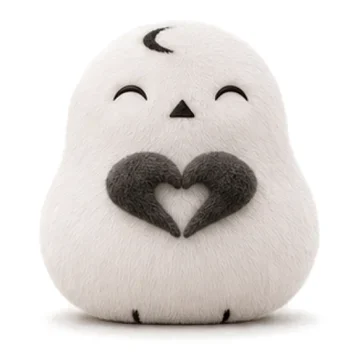
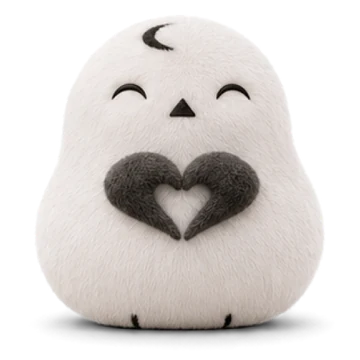
Cut out character backgrounds, keep their shadows
Re-cut all babsae and animal images as transparent WebP: the body is
segmented and the soft floor shadow is kept as semi-transparent black,
so characters sit directly on pink and purple backgrounds. Drop the
white circle and card frames around characters and avatars.

Claude-Session: https://claude.ai/code/session_018ZYqN2crppdHUiiN1saqA5

diff --git a/src/styles/base.css b/src/styles/base.css
@@ -194,17 +194,8 @@ a { color: inherit; }
 }
 .screen-nav a[aria-current='page'] { background: var(--c-purple); color: var(--c-white); border-color: var(--c-purple); }
 
-/* ---------- 캐릭터 (뱁새, 친구 동물) ---------- */
-.char {
-  flex: none; align-self: center; overflow: hidden;
-  border-radius: 32%; background: var(--c-white);
-  box-shadow: 0 6px 20px rgba(242, 54, 155, 0.12);
-}
-.char--round { border-radius: 50%; }
-.char img { display: block; width: 100%; height: 100%; object-fit: cover; user-select: none; }
-.avatar.avatar--animal {
-  flex: none; overflow: hidden; padding: 0;
-  background: var(--c-white); border: 2px solid var(--c-white);
-  box-shadow: 0 0 0 1.5px var(--c-pink-3);
-}
-.avatar--animal img { width: 100%; height: 100%; object-fit: cover; transform: scale(1.3) translateY(4%); }
+/* ---------- 캐릭터 (뱁새, 친구 동물): 배경 투명 PNG, 그림자는 이미지에 포함 ---------- */
+.char { flex: none; align-self: center; }
+.char img { display: block; width: 100%; height: 100%; object-fit: contain; user-select: none; }
+.avatar.avatar--animal { flex: none; padding: 0; background: none; border: 0; border-radius: 0; }
+.avatar--animal img { width: 100%; height: 100%; object-fit: contain; user-select: none; }

diff --git a/src/styles/screens.css b/src/styles/screens.css
@@ -185,7 +185,6 @@ input[type='radio'], input[type='checkbox'] { accent-color: var(--c-purple); wid
 }
 /* 응답자 이름 칩 + 동물 */
 .nm.nm--avatar { gap: 5px; padding-left: 3px; }
-.nm--avatar .avatar { border-width: 1px; box-shadow: none; }
 /* B6 식탁 + 동물 자리 */
 .table__top {
   position: absolute; width: 180px; height: 130px; border-radius: 50%;
@@ -193,4 +192,3 @@ input[type='radio'], input[type='checkbox'] { accent-color: var(--c-purple); wid
   box-shadow: inset 0 -6px 0 var(--c-pink-3), 0 8px 20px rgba(242, 54, 155, 0.15);
 }
 .seat.is-on { background: none; box-shadow: none; }
-.seat .avatar { box-shadow: 0 0 0 2px var(--c-pink), 0 4px 10px rgba(123, 87, 224, 0.25); }

diff --git a/src/screens/B1.jsx b/src/screens/B1.jsx
@@ -29,7 +29,7 @@ export default function B1() {
       <div className="stack" style={{ gap: 8 }}>
         <p className="t-body" style={{ fontWeight: 700 }}>{N}명 중 {count}명 응답</p>
         <div className="row" style={{ gap: 6 }}>
-          {responded.map((n) => <Avatar key={n} name={n} />)}
+          {responded.map((n) => <Avatar key={n} name={n} size={44} />)}
           {Array.from({ length: N - count }, (_, i) => <span key={i} className="avatar avatar--empty" aria-hidden="true" />)}
         </div>
       </div>

diff --git a/src/screens/B6.jsx b/src/screens/B6.jsx
@@ -22,7 +22,7 @@ export default function B6() {
           const on = i < count
           return (
             <span key={i} className={`seat ${on ? 'is-on' : ''}`} style={{ left: C + R * Math.cos(a) - 25, top: C + R * Math.sin(a) - 25 }}>
-              {on && responded[i] ? <Avatar name={responded[i]} size={50} /> : ''}
+              {on && responded[i] ? <Avatar name={responded[i]} size={58} /> : ''}
             </span>
           )
         })}
